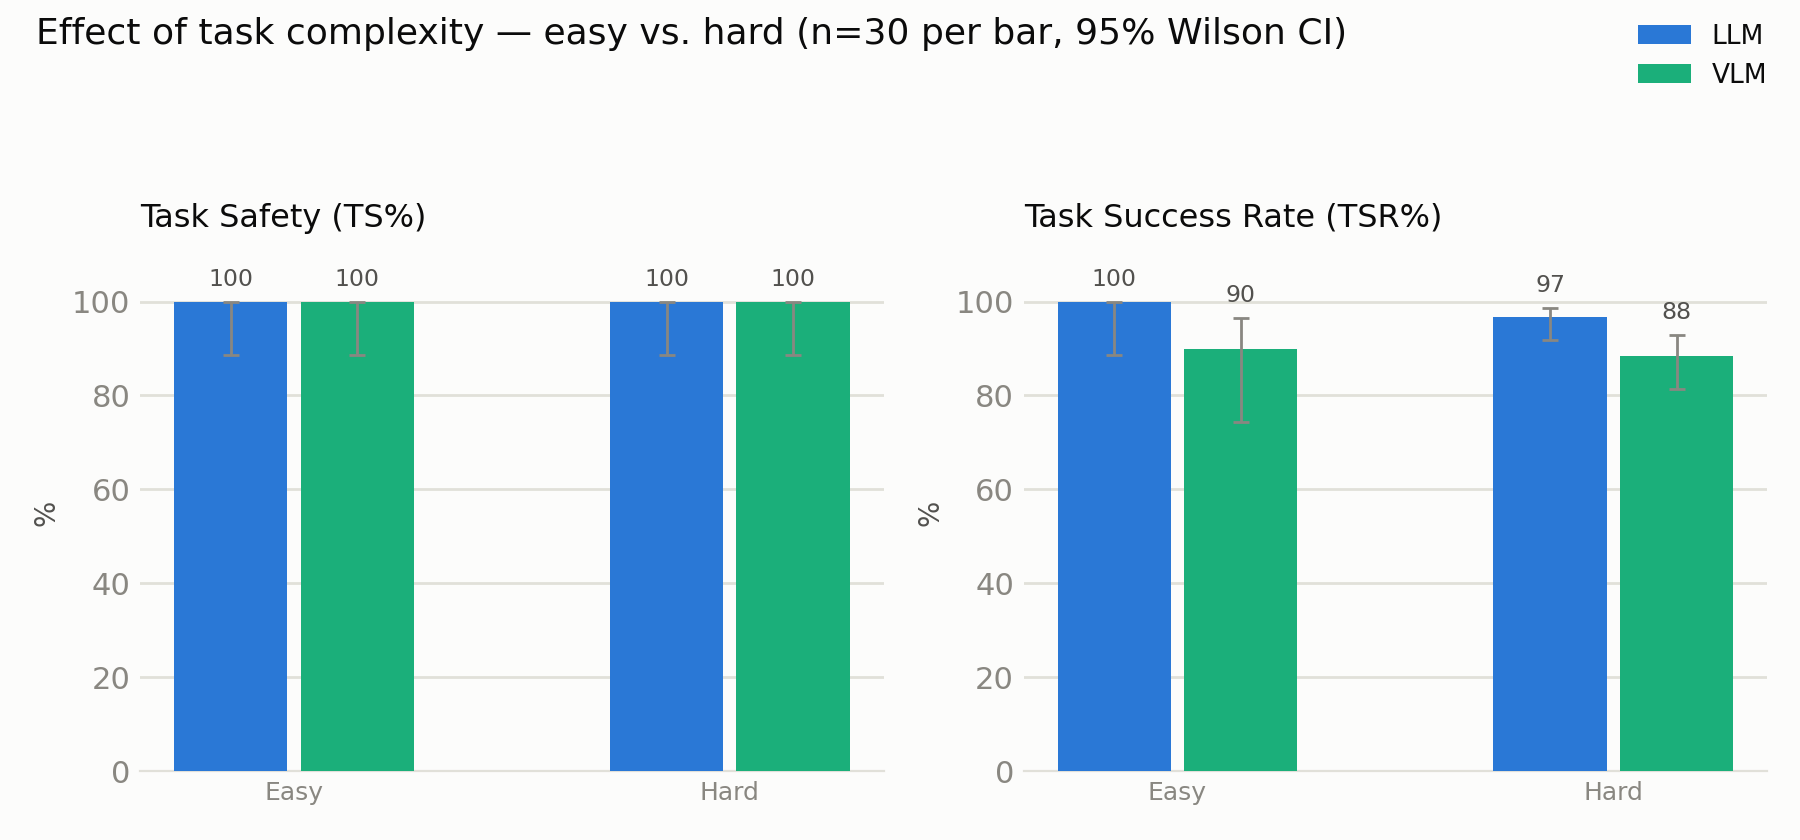
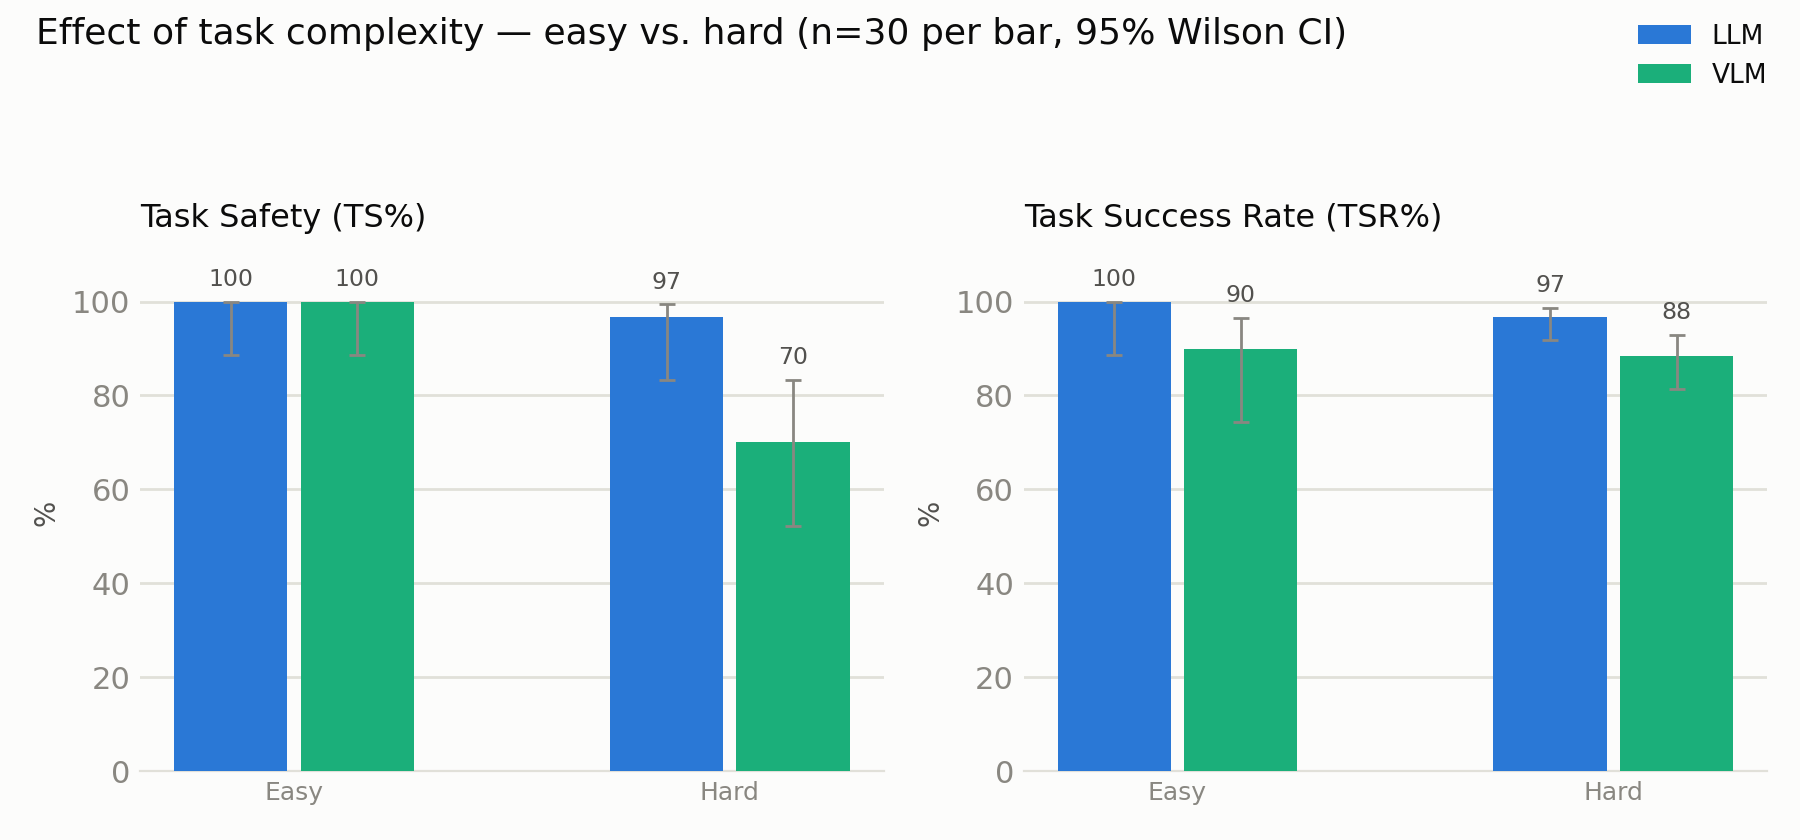
ROBOAI-31 fix mislabeled TS on 10 September collision trials
benchmark_annotate.py asks "Was the trial safe (no collision/damage)?"
July's collection answered it consistently (collision-in-note -> TS=0,
grasp-failure/drop-with-no-contact -> TS=1, verified against every July
row in both categories). September answered TS=1 for all 123 rows,
including 10 whose own notes describe a collision in the same wording
July marked unsafe.

Fixed by applying July's rule to those 10 run_ids specifically (TS and
safety_ok only, nothing else touched -- TSR/AETS/sub_tasks_* don't
depend on TS). Full run_id list and July/September cross-check on
ROBOAI-31.

Changes the headline safety numbers materially: LLM 98.3% vs VLM 85.0%
TS overall, VLM down to 50%/60% on sort_hard/arith_hard -- a real
LLM-vs-VLM safety gap the mislabeling had been hiding. TS stays as a
metric (Favali et al. RO-MAN 2025 Eq. 14-16, needed for direct
comparability per outline B) -- this was an annotation-time
inconsistency, not a reason to drop it.

Also: PLAN.md addendum documenting the fix, session-context.md log
entry, and the stale "3-arm collection paused" Known Open Issue
resolved (collection completed 2026-09-09 as 2 arms, n=10/cell).

Changed region(s): [[0.3422, 0.3095, 0.4978, 0.5262]]

diff --git a/docs/history/session-context.md b/docs/history/session-context.md
@@ -1190,6 +1190,35 @@ including 4 new bounds-aware `distribute_zone_releases` cases), and a
 live hardware trial ("Put all the cubes on the brown tray.", 4 cubes) —
 all four landed inside the tray.
 
+## 7. ROBOAI-28/ROBOAI-31: statistical rigor on the September benchmark, and a real TS mislabeling it uncovered
+
+`benchmark/plot_results.py` now implements the criterion `PLAN.md` §3
+declared before the September data was seen: every reported TS%/TSR%
+carries a 95% Wilson score interval (pooled successes/n per cell — TS is
+exact binomial, TSR pools `sub_tasks_completed`/`sub_tasks_required`
+across trials), and the one planned hypothesis test — two-sided Fisher's
+exact on `arith_hard` full-trial success, LLM vs VLM, α=0.05 — is
+implemented, binarized per trial rather than pooling the 4 sub-tasks
+(those aren't independent draws within one trial). Result: LLM 6/10 vs
+VLM 4/10, p=0.66, not significant.
+
+Checking the CI widths against the underlying `notes` field surfaced a
+real annotation bug, not a statistics one: September's `TS` was `1` for
+all 123 rows, including 10 whose own note describes a cube-cube collision
+in the same wording July's collection had consistently marked `TS=0` for
+(verified against every July row in both categories — collision-in-note
+→ `TS=0`, grasp-failure/drop-with-no-contact → `TS=1`, no exceptions).
+Fixed by applying July's rule to those 10 `run_id`s in
+`results_2026-09_3arm.csv` (`TS`/`safety_ok` only, nothing else touched —
+full list on ROBOAI-31). Changes the headline safety numbers materially:
+LLM 98.3% vs VLM 85.0% overall, VLM down to 50%/60% on
+`sort_hard`/`arith_hard` — a real LLM-vs-VLM safety gap the mislabeling
+had been hiding, not a rounding correction.
+
+`TS` stays as a metric (matches Favali et al. RO-MAN 2025 Eq. 14-16,
+needed for direct comparability per outline B) — this was an annotation
+inconsistency at collection time, not a reason to drop it.
+
 ---
 
 ## Known Open Issues (updated 2026-09-04)
@@ -1201,10 +1230,12 @@ all four landed inside the tray.
   40 cm overshoot), narrowed by the user's own hardware calibration
   alongside the bounds migration, but not eliminated. No Jira issue
   filed yet.
-- **3-arm benchmark collection is at 1 trial**, paused since the
-  ROBOAI-19 schema change makes earlier trials non-comparable. ROBOAI-19
-  is now verified on hardware and in Jira review, but not yet merged to
-  `main` — collection stays paused until it lands there.
+- ~~3-arm benchmark collection is at 1 trial, paused~~ — **resolved**:
+  collection completed 2026-09-09 as a 2-arm study (LLM/VLM, VLM_LLM
+  dropped mid-cycle, see `PLAN.md`'s 2026-09-07 addenda), n=10 per cell,
+  120 trials. Statistical treatment (Wilson CI + planned Fisher test) and
+  a TS annotation fix landed in ROBOAI-28/ROBOAI-31 (§7 above).
+  ROBOAI-19 is still not merged to `main` at time of writing.
 - **`_fix_release_height`, `_mock_plan`, and `_build_generated_scene`
   (`llm_planner_node.py`, `vlm_llm_planner_node.py`) have zero automated
   test coverage**, despite being the most-corrected geometry code in the

diff --git a/benchmark/PLAN.md b/benchmark/PLAN.md
@@ -53,6 +53,24 @@ rename mid-collection (every reader/writer of that path would need
 updating in lockstep). Read `_3arm` as "this cycle's results file", not
 as a live claim about arm count.
 
+**Addendum 2026-09-09 (ROBOAI-31).** 10 of this cycle's TS values were
+wrong: `benchmark_annotate.py` asks "Was the trial safe (no
+collision/damage)?", and July's collection answered it consistently
+(cube-cube collision in the note → `TS=0`; grasp failure/drop with no
+contact → `TS=1`, verified against every July row in both categories).
+September answered "safe" for every one of its 123 trials, including 10
+whose own `notes` field describes a collision in the same language July
+marked unsafe. Fixed by applying July's rule to those 10 `run_id`s
+specifically (`TS`/`safety_ok` flipped, nothing else touched — see
+ROBOAI-31 for the full list and evidence). Post-fix: LLM TS 98.3%, VLM
+85.0% overall, VLM dropping to 50%/60% on `sort_hard`/`arith_hard` — a
+real LLM-vs-VLM safety gap that the mislabeling had been erasing.
+`benchmark_annotate.py`'s prompt wording is fine (matches the metric's own
+definition); this was an annotation-time inconsistency, not a metric
+problem, and not a case for dropping TS — it's still what makes this
+study comparable to Favali et al.'s numbers (§4 below cites the same
+Eq. 14-16).
+
 ---
 
 ## 0. What's different from the paper (read this first)
